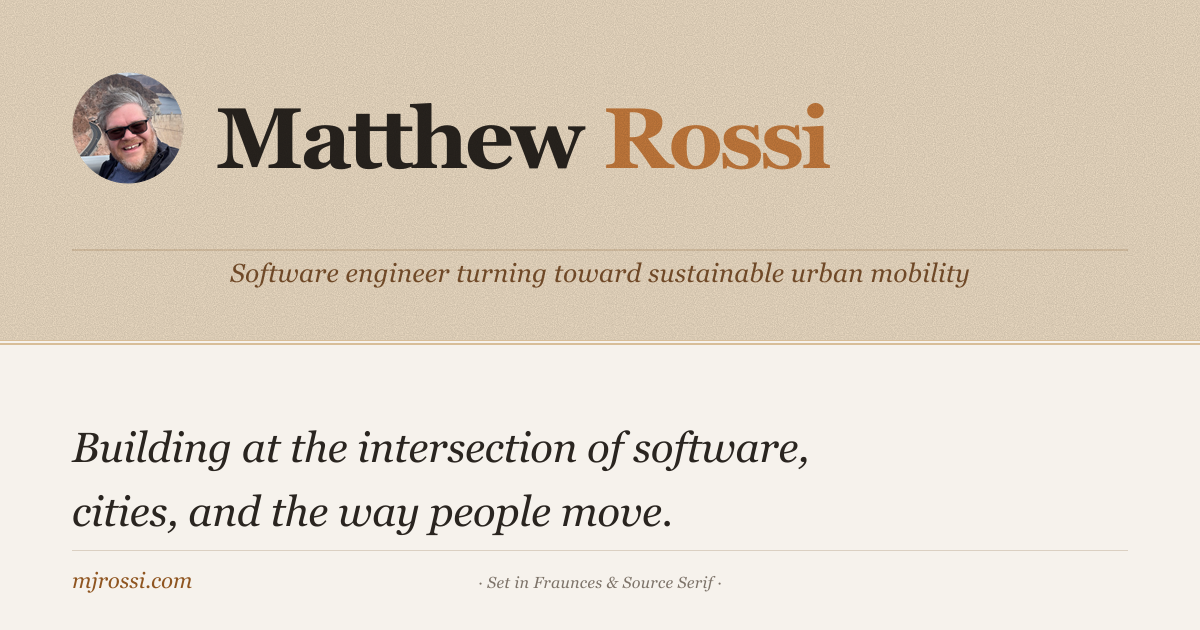
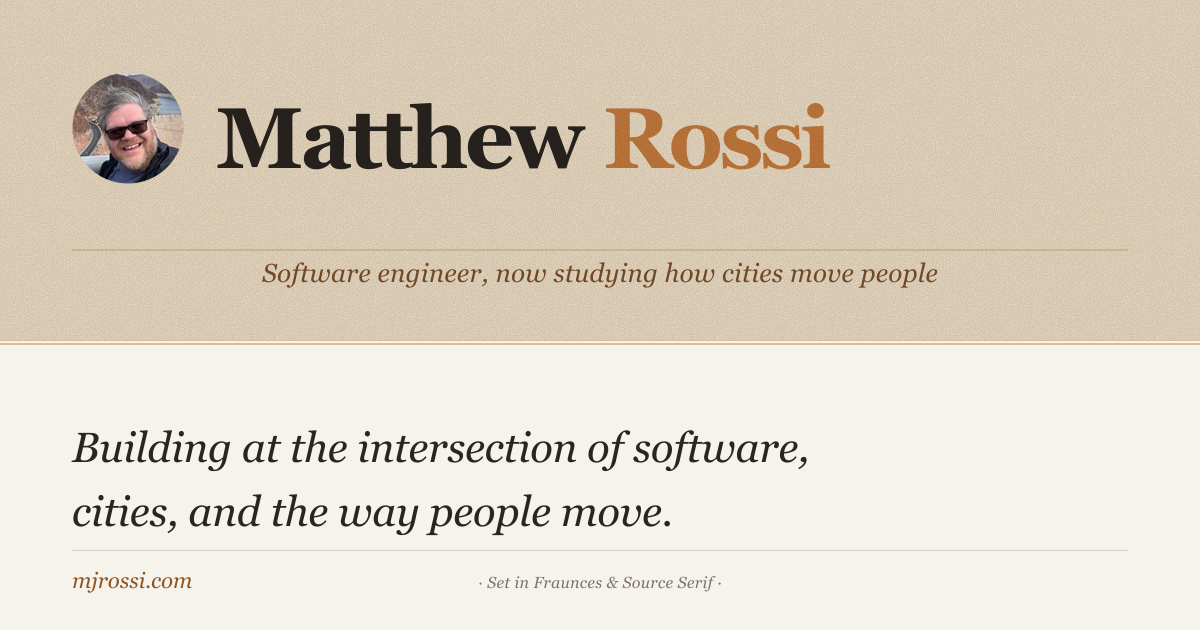
Voice pass on the site's pages, and a new tagline
Bring the page copy closer to the voice in the Lexicon: concrete scenes
over CV phrasing, first person, plain verbs.

- Home: About opens on the car that wouldn't start and Chicago;
  Now leads with Lisbon and being a student again (Updated Oct 2026).
- Work: a more personal intro that keeps the CV context; entries
  tightened, with every fact kept.
- Projects, Education, Urban Mobility: rewritten intros and body copy.
  ChiHackNight is "started attending"; Rail Passengers Association
  removed.
- TAGLINE is now "Software engineer, now studying how cities move
  people". public/og.png regenerated with `just og`, and the default
  og:image bumped to ?v=3 so scrapers refetch it.

Changed region(s): [[0.185, 0.4222, 0.8017, 0.4524]]

diff --git a/src/lib/identity.js b/src/lib/identity.js
@@ -32,7 +32,7 @@
 // there — so there is no shared value to lift, only a shared shape.
 
 /** The masthead tagline. Also the spine of `SITE_DESCRIPTION` below. */
-export const TAGLINE = 'Software engineer turning toward sustainable urban mobility';
+export const TAGLINE = 'Software engineer, now studying how cities move people';
 
 /**
  * The Urbanist Lexicon's own line: the tagline of the periodical's masthead on

diff --git a/src/lib/now.js b/src/lib/now.js
@@ -10,7 +10,7 @@
 // wrong month, which reads as perfectly ordinary.
 
 /** Month the Now section was last rewritten. `YYYY-MM`. */
-export const NOW_UPDATED = '2026-09';
+export const NOW_UPDATED = '2026-10';
 
 const MONTHS = [
   'January', 'February', 'March', 'April', 'May', 'June',
